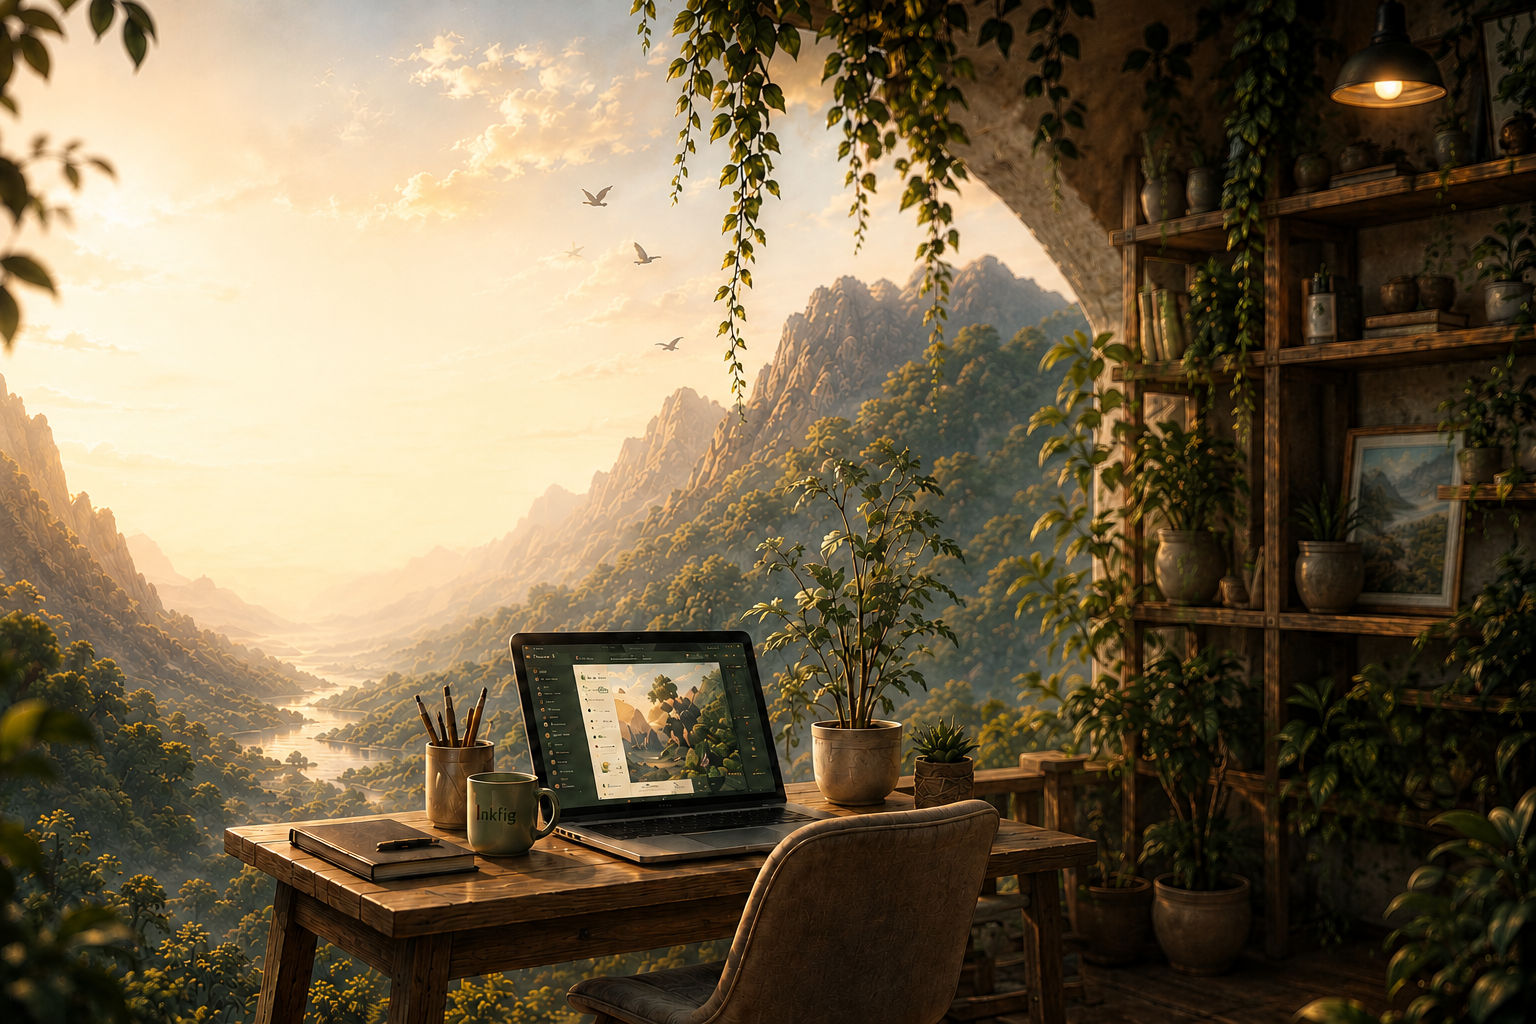
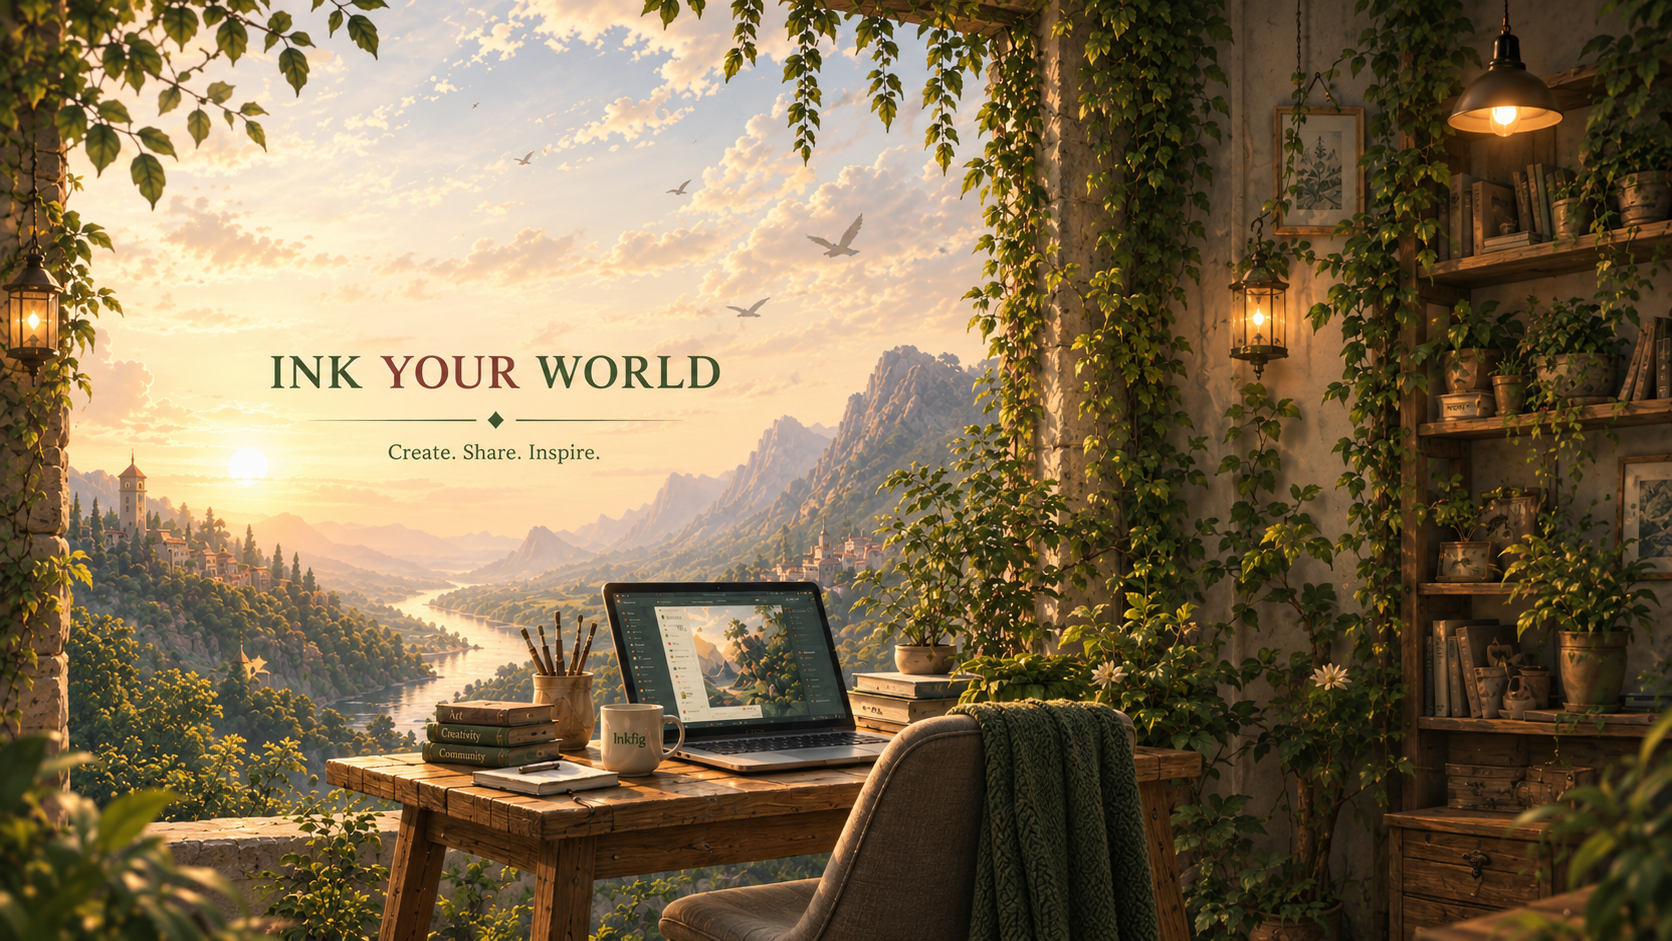
Refine authentication artwork composition

diff --git a/src/styles.css b/src/styles.css
@@ -118,8 +118,11 @@ button:focus-visible, a:focus-visible, input:focus-visible, select:focus-visible
     radial-gradient(circle at 85% 82%, var(--auth-fig-glow), transparent 26rem);
 }
 .auth-photo-background {
+  position: relative;
+  padding-inline: clamp(24px, 6vw, 112px);
+  place-items: center end;
   background-image:
-    linear-gradient(rgb(247 243 217 / 0.38), rgb(57 67 28 / 0.2)),
+    linear-gradient(90deg, rgb(247 243 217 / 0.06) 42%, rgb(57 67 28 / 0.2)),
     url("./assets/auth-background.png");
   background-position: center;
   background-repeat: no-repeat;
@@ -127,9 +130,20 @@ button:focus-visible, a:focus-visible, input:focus-visible, select:focus-visible
 }
 :root[data-theme="dark"] .auth-photo-background {
   background-image:
-    linear-gradient(rgb(16 20 12 / 0.58), rgb(16 20 12 / 0.7)),
+    linear-gradient(90deg, rgb(16 20 12 / 0.24) 38%, rgb(16 20 12 / 0.7)),
     url("./assets/auth-background.png");
 }
+.auth-scene-logo {
+  position: absolute;
+  inset-block-start: clamp(64px, 15vh, 140px);
+  left: 30%;
+  width: clamp(150px, 16vw, 260px);
+  height: auto;
+  transform: translateX(-50%);
+  filter: drop-shadow(0 8px 18px rgb(16 20 12 / 0.24));
+}
+.auth-photo-background .auth-card { z-index: 1; }
+.auth-photo-background .auth-card .auth-logo { display: none; }
 .auth-theme-control { position: fixed; inset-block-start: 18px; inset-inline-end: 18px; z-index: 5; }
 .auth-layout-scroll { padding-block: 36px; }
 .auth-card {
@@ -240,6 +254,12 @@ button:focus-visible, a:focus-visible, input:focus-visible, select:focus-visible
   .topbar { padding-inline: 14px; }
   .page-content { padding: 20px 14px 84px; }
   .page-header { flex-direction: column; }
+}
+
+@media (max-width: 1050px) {
+  .auth-photo-background { padding-inline: 20px; place-items: center; }
+  .auth-scene-logo { display: none; }
+  .auth-photo-background .auth-card .auth-logo { display: block; }
 }
 
 @media (prefers-reduced-motion: reduce) {

diff --git a/src/features/auth/SignupPage.tsx b/src/features/auth/SignupPage.tsx
@@ -77,6 +77,7 @@ export function SignupPage() {
   return (
     <main className="auth-layout auth-layout-scroll auth-photo-background">
       <div className="auth-theme-control"><ThemeToggle /></div>
+      <img aria-hidden="true" className="auth-scene-logo" src={inkfigLogo} alt="" />
       <section className="auth-card signup-card" aria-labelledby="signup-title">
         <img className="auth-logo" src={inkfigLogo} alt={t("app.name")} />
         <p className="eyebrow brand-name">{t("app.name")}</p>

diff --git a/src/features/auth/LoginPage.tsx b/src/features/auth/LoginPage.tsx
@@ -47,6 +47,7 @@ export function LoginPage() {
   return (
     <main className="auth-layout auth-photo-background">
       <div className="auth-theme-control"><ThemeToggle /></div>
+      <img aria-hidden="true" className="auth-scene-logo" src={inkfigLogo} alt="" />
       <section className="auth-card login-card" aria-labelledby="login-title">
         <img className="auth-logo" src={inkfigLogo} alt={t("app.name")} />
         <p className="eyebrow brand-name">{t("app.name")}</p>

diff --git a/AGENT_FEATURE_LOG.md b/AGENT_FEATURE_LOG.md
@@ -1269,3 +1269,76 @@ No migration required.
 ### Notes
 
 The artwork remains a PNG to preserve the exact supplied image quality.
+
+## 2026-09-30 - Refresh authentication artwork and logo composition
+
+### Request
+
+Replace the sign-in and sign-up background with the newly supplied artwork and position the InkFig logo beautifully above the artwork's `INK YOUR WORLD` headline.
+
+### Changes
+
+- Replaced the previous authentication background with the supplied 1672-by-941 wide PNG at its original resolution.
+- Repositioned desktop authentication cards on the right so the artwork headline remains visible on the left.
+- Added a responsive scene logo above the artwork headline with proportional sizing and a restrained shadow.
+- Kept a single visible logo by hiding the card logo on wide screens and restoring it when the scene composition is hidden on narrower screens.
+- Refined light- and dark-theme overlays to preserve artwork detail and form contrast.
+- Extended regression coverage for the scene logo and responsive fallback.
+
+### Repositories
+
+- `inkfig-user-FE`: replaced the asset and updated authentication layout, styling, and tests.
+- `inkfig-user-system`: no changes required.
+- `inkfig-main-system`: no changes required.
+
+### Files
+
+- `src/assets/auth-background.png`: contains the new supplied artwork at its original resolution.
+- `src/features/auth/LoginPage.tsx`: adds the desktop scene logo to sign-in.
+- `src/features/auth/SignupPage.tsx`: adds the desktop scene logo to sign-up.
+- `src/styles.css`: positions the logo and cards and defines the responsive fallback and theme overlays.
+- `tests/foundation.test.mjs`: verifies the logo composition and responsive behavior.
+- `AGENT_FEATURE_LOG.md`: records this ticket.
+
+### API
+
+No API changes.
+
+### Database
+
+No migration required.
+
+### Permissions and scope
+
+- No authentication, authorization, roles, permissions, or access scopes changed.
+- Backend authorization remains unchanged and authoritative.
+
+### Frontend
+
+- Wide screens display the InkFig logo above the background's `INK YOUR WORLD` headline while the form sits on the right.
+- Screens up to 1050 pixels center the form and display the logo inside the card to prevent cropping or overlap.
+- Both theme modes keep the same responsive artwork with tailored overlays.
+- Authentication behavior, localization, RTL/LTR behavior, routes, and validation remain unchanged.
+
+### Verification
+
+- `[passed] npm test` - 12 tests passed.
+- `[passed] npm run build` - strict TypeScript checks and Vite production build succeeded.
+- `[passed] source image inspection` - installed asset is 1672 by 941 pixels.
+- `[passed] git diff --check`
+- `[not run] live browser visual inspection` - no browser surface was available to the computer-use session.
+
+### Deployment
+
+- Pushing `main` triggers the existing Cloudflare frontend deployment workflow.
+- No environment-variable, backend, database, or deployment-order changes are required.
+
+### Git
+
+- Branch: `main`
+- Commit: this ticket's focused commit.
+- Push: pushed directly to `origin/main` after synchronization.
+
+### Notes
+
+The desktop composition intentionally uses the physical left side because the headline is embedded in the raster artwork and does not move in RTL mode.
